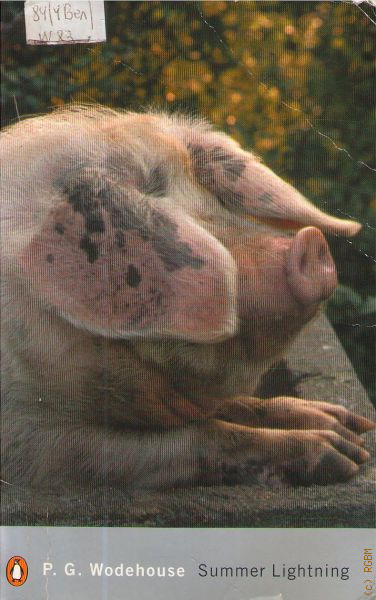
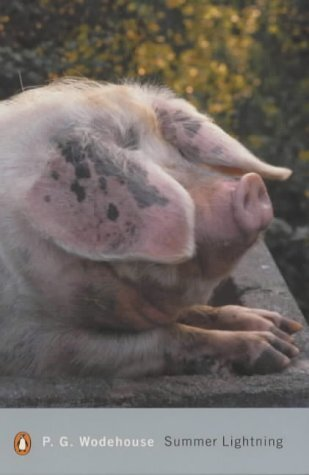
Fix Goodreads links, reorder books, update cover and hover styling
Corrected Goodreads URLs for Summer Lightning, Based on a True Story,
and The Trading Game. Reordered books by preference. Updated Summer
Lightning cover image. Refined hover to only orange the title with
no underlines.

diff --git a/books/index.html b/books/index.html
@@ -27,27 +27,17 @@
     <article>
       <h2>Favourite Books</h2>
       <div class="books-grid">
-        <a href="https://www.goodreads.com/book/show/199241430-the-trading-game" target="_blank" class="book-card">
-          <img src="/books/covers/trading-game.jpg" alt="The Trading Game: A Confession">
-          <p class="book-title">The Trading Game</p>
-          <p class="book-author">Gary Stevenson</p>
-        </a>
-        <a href="https://www.goodreads.com/book/show/144087.Summer_Lightning" target="_blank" class="book-card">
-          <img src="/books/covers/summer-lightning.jpg" alt="Summer Lightning">
-          <p class="book-title">Summer Lightning</p>
-          <p class="book-author">P.G. Wodehouse</p>
-        </a>
         <a href="https://www.goodreads.com/book/show/310612.A_Confederacy_of_Dunces" target="_blank" class="book-card">
           <img src="/books/covers/confederacy-of-dunces.jpg" alt="A Confederacy of Dunces">
           <p class="book-title">A Confederacy of Dunces</p>
           <p class="book-author">John Kennedy Toole</p>
         </a>
-        <a href="https://www.goodreads.com/book/show/29380.Animal_Liberation" target="_blank" class="book-card">
-          <img src="/books/covers/animal-liberation.jpg" alt="Animal Liberation">
-          <p class="book-title">Animal Liberation</p>
-          <p class="book-author">Peter Singer</p>
+        <a href="https://www.goodreads.com/book/show/13707659-summer-lightning" target="_blank" class="book-card">
+          <img src="/books/covers/summer-lightning.jpg" alt="Summer Lightning">
+          <p class="book-title">Summer Lightning</p>
+          <p class="book-author">P.G. Wodehouse</p>
         </a>
-        <a href="https://www.goodreads.com/book/show/29480303-based-on-a-true-story" target="_blank" class="book-card">
+        <a href="https://www.goodreads.com/book/show/28686959-based-on-a-true-story" target="_blank" class="book-card">
           <img src="/books/covers/based-on-a-true-story.jpg" alt="Based on a True Story: A Memoir">
           <p class="book-title">Based on a True Story</p>
           <p class="book-author">Norm Macdonald</p>
@@ -56,6 +46,16 @@
           <img src="/books/covers/othello.jpg" alt="Othello">
           <p class="book-title">Othello</p>
           <p class="book-author">William Shakespeare</p>
+        </a>
+        <a href="https://www.goodreads.com/book/show/188543465-the-trading-game" target="_blank" class="book-card">
+          <img src="/books/covers/trading-game.jpg" alt="The Trading Game: A Confession">
+          <p class="book-title">The Trading Game</p>
+          <p class="book-author">Gary Stevenson</p>
+        </a>
+        <a href="https://www.goodreads.com/book/show/29380.Animal_Liberation" target="_blank" class="book-card">
+          <img src="/books/covers/animal-liberation.jpg" alt="Animal Liberation">
+          <p class="book-title">Animal Liberation</p>
+          <p class="book-author">Peter Singer</p>
         </a>
       </div>
     </article>

diff --git a/style.css b/style.css
@@ -428,6 +428,12 @@ article p {
   text-align: center;
   text-decoration: none;
   color: #000;
+  font-size: inherit;
+}
+
+.book-card:hover {
+  text-decoration: none;
+  color: #000;
 }
 
 .book-card:hover .book-title {
